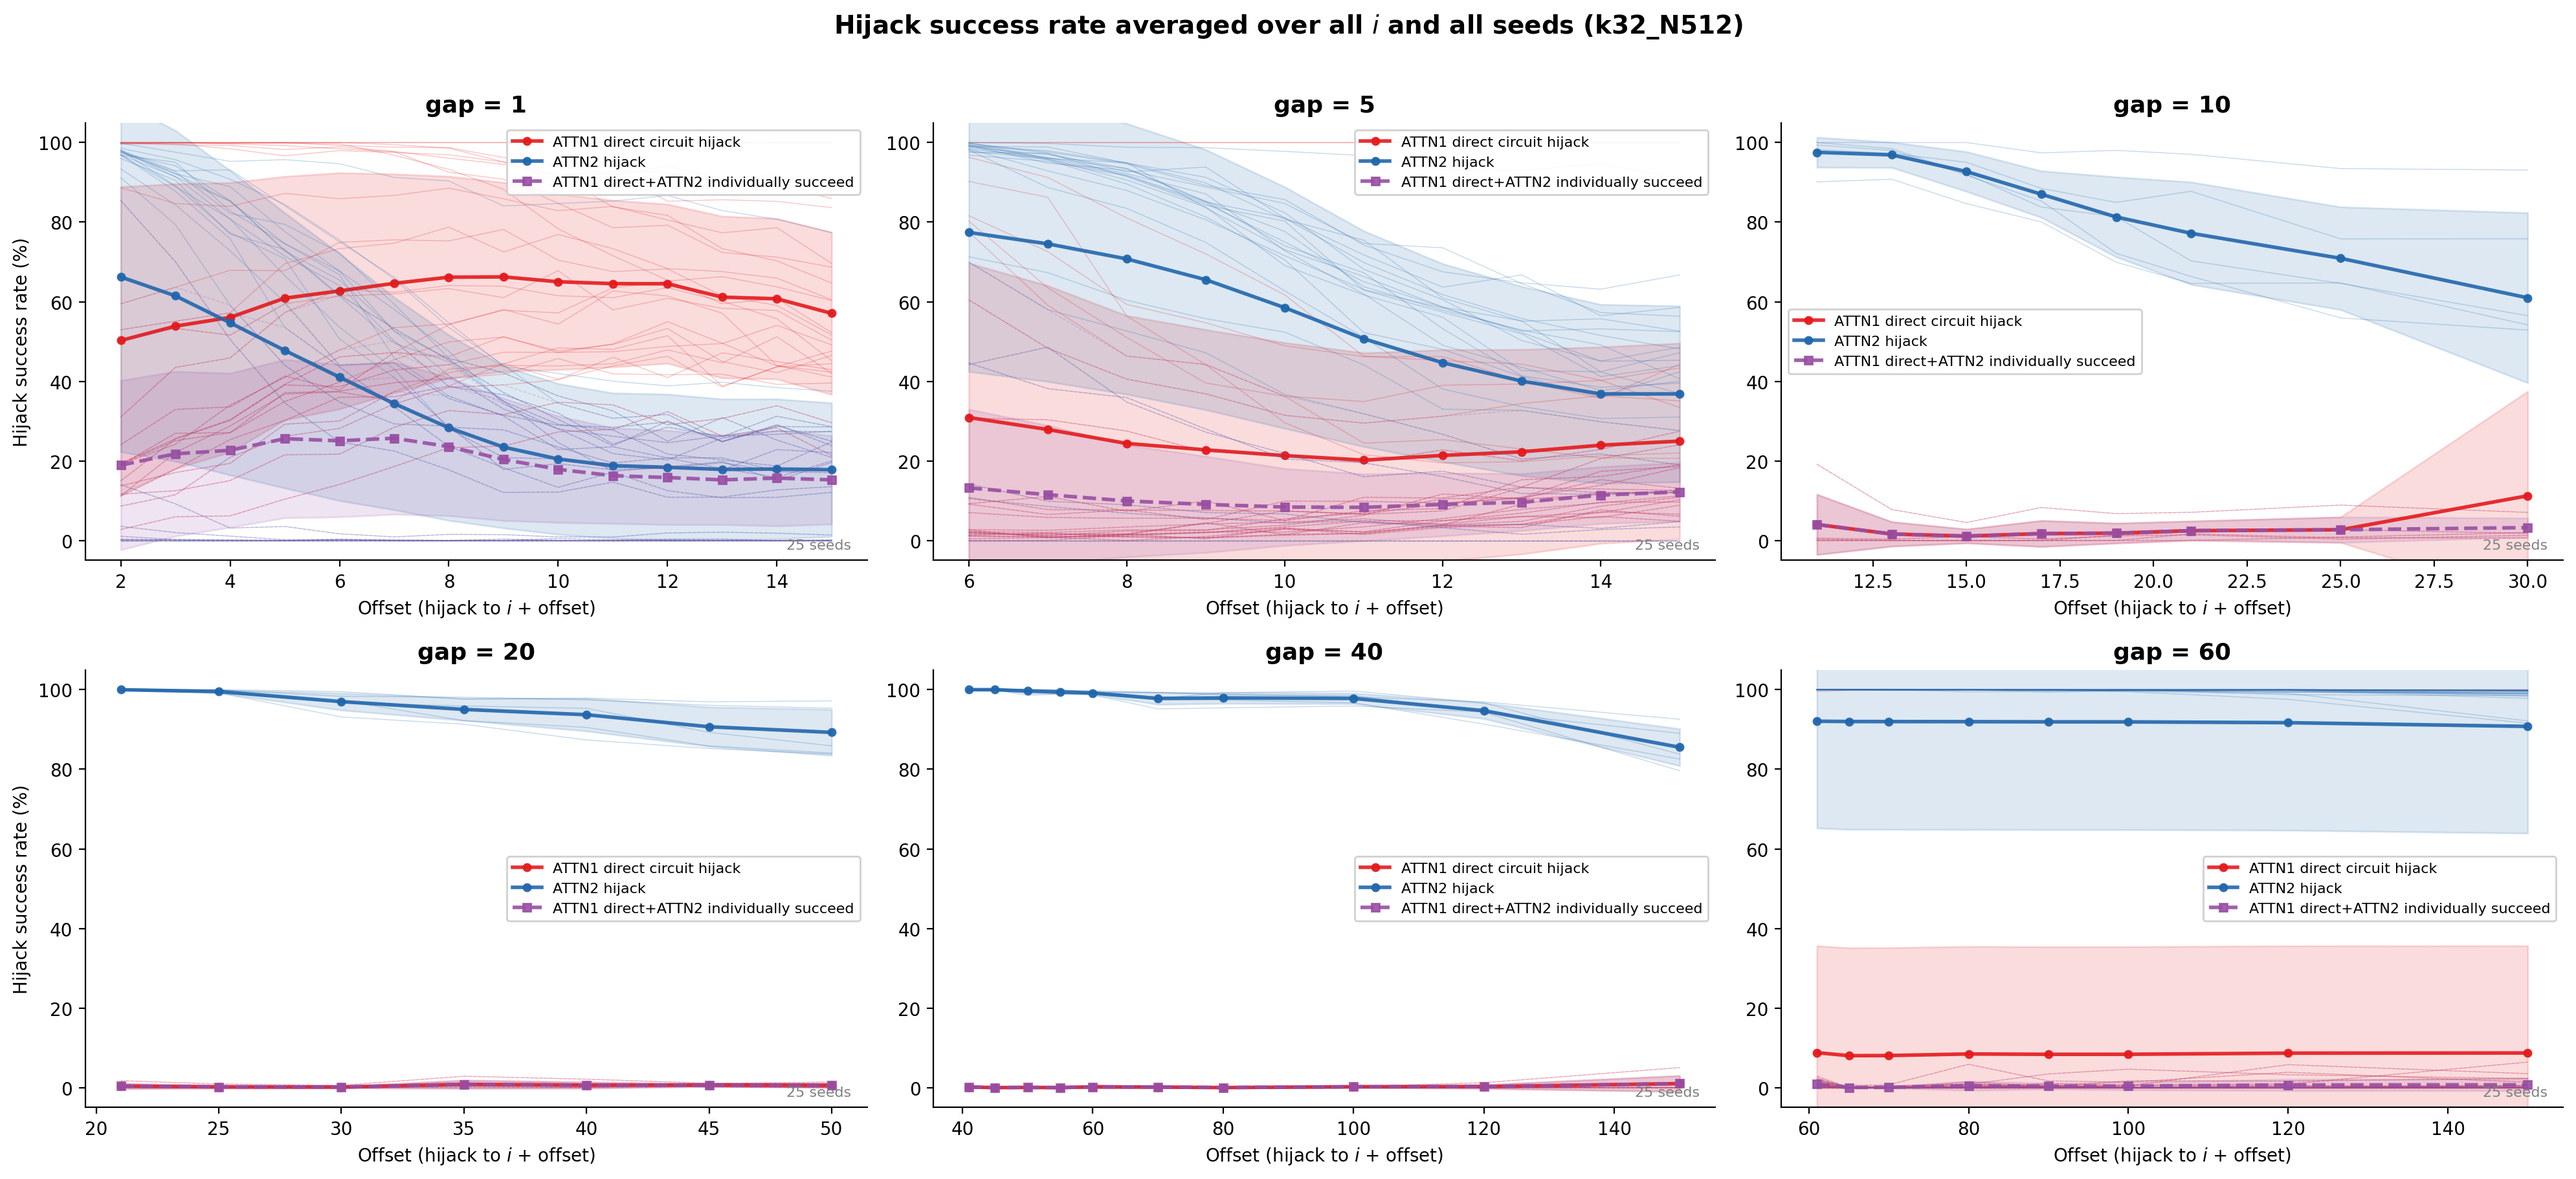
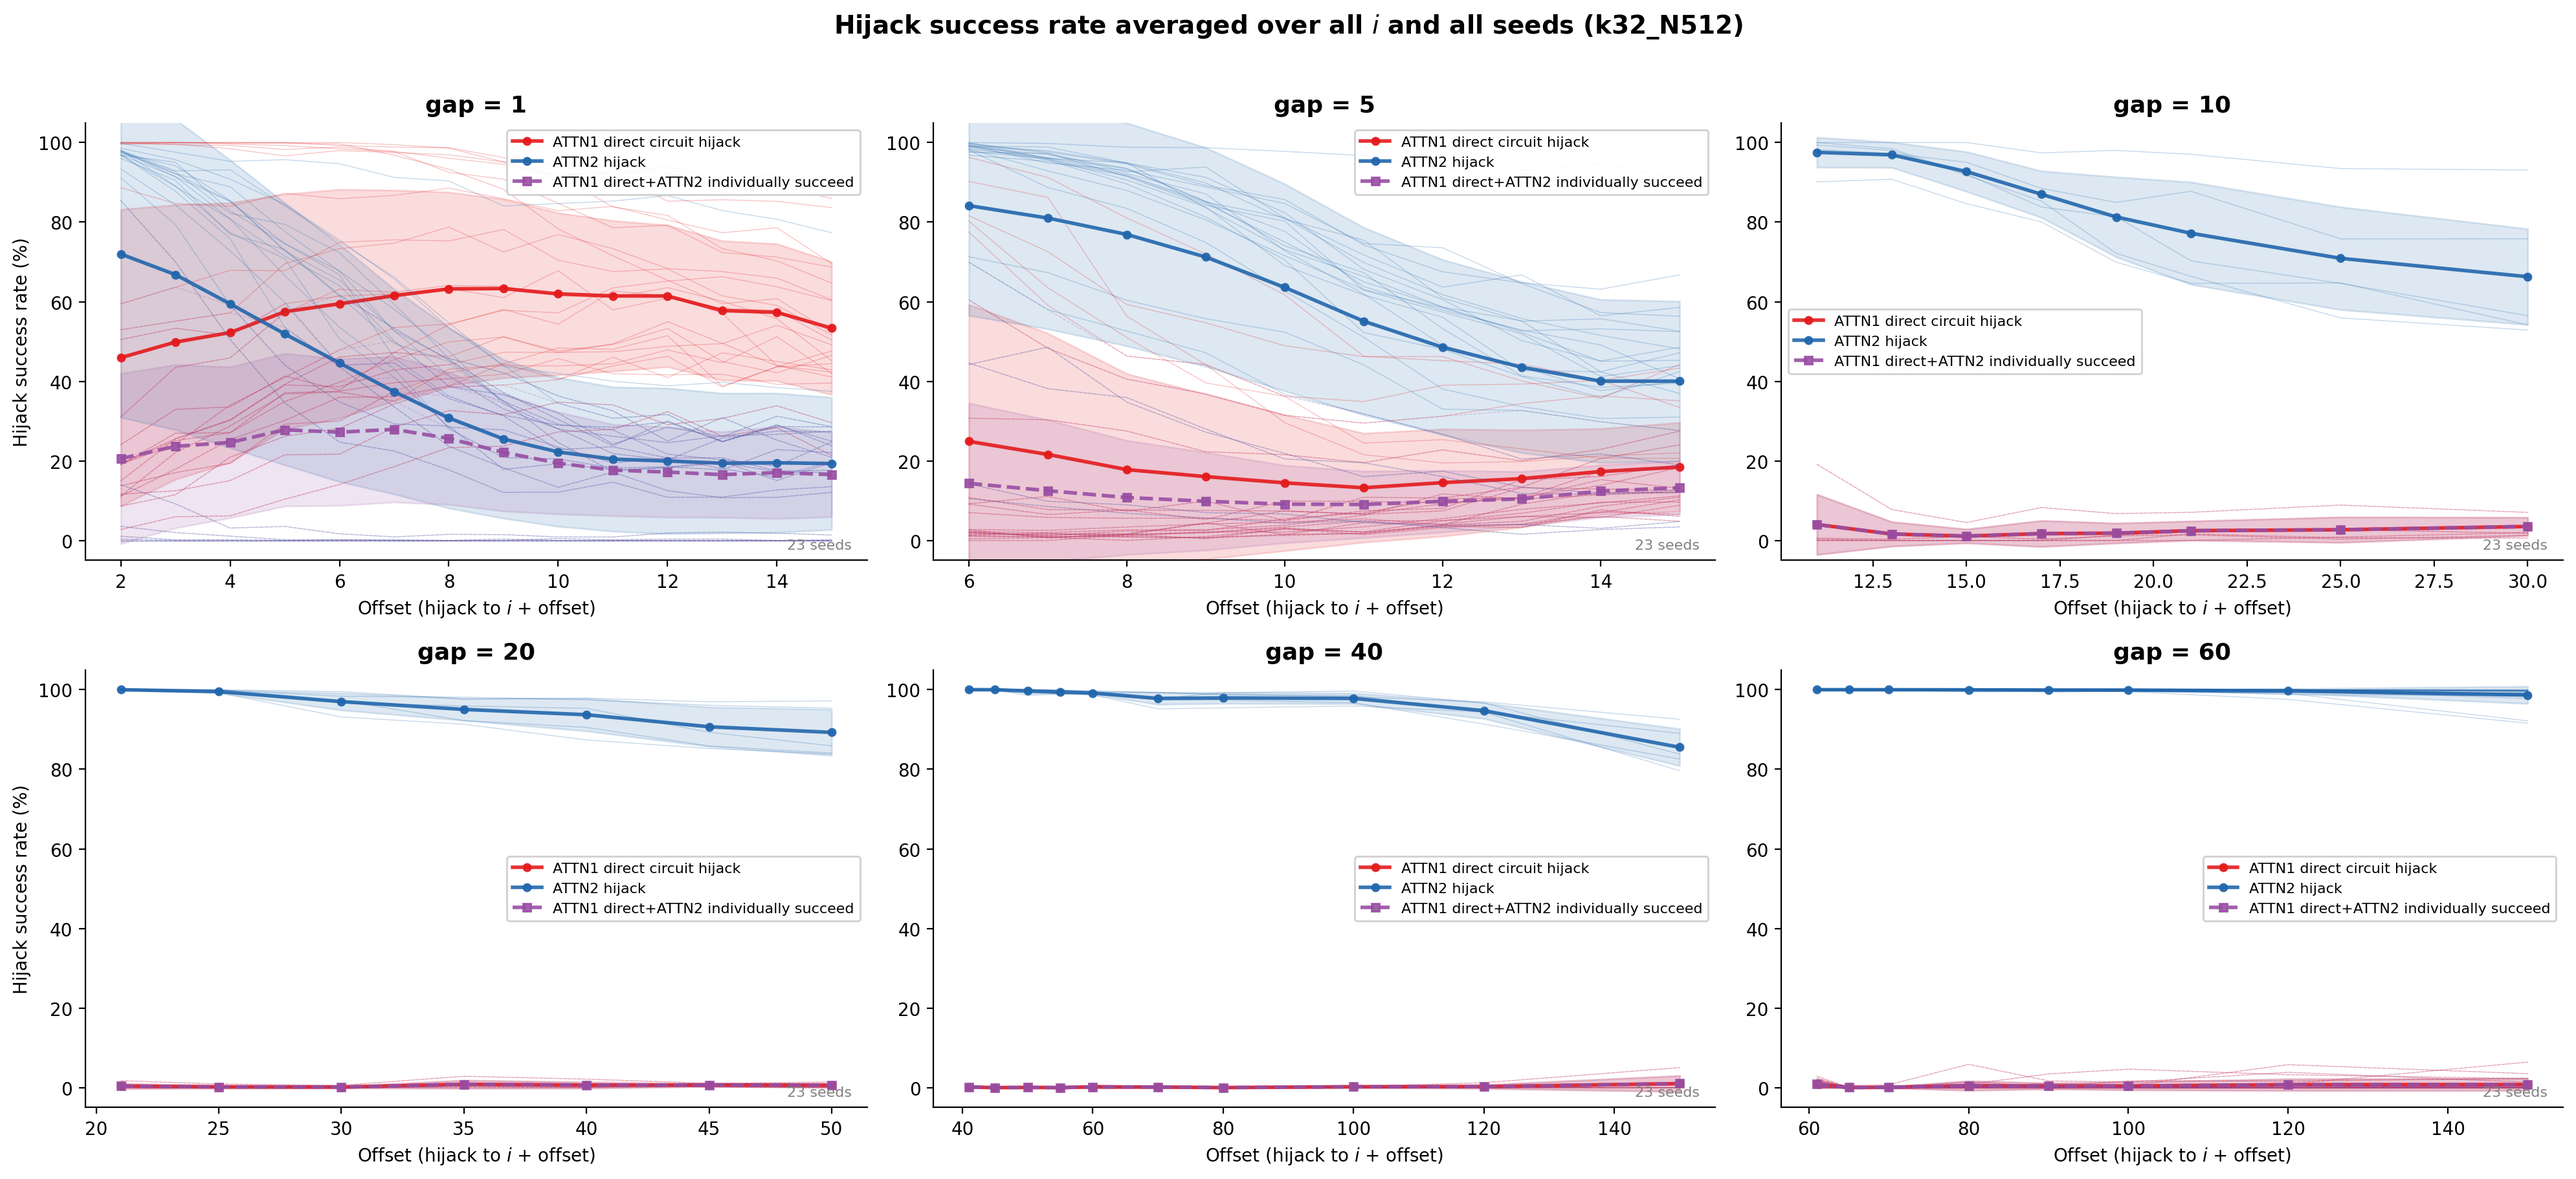
Update hijack plot to 23 two-stage seeds, add classification scripts
Made-with: Cursor

diff --git a/mechanistic-interpretability/role-of-position/classify_new_seeds.py b/mechanistic-interpretability/role-of-position/classify_new_seeds.py
@@ -1,0 +1,57 @@
+#!/usr/bin/env python3
+"""Classify seeds 6-25 for k32_N512 as leap-former or not."""
+import os, sys
+sys.path.insert(0, os.path.join(os.path.dirname(__file__), '..', '..', 'sortgpt_toolkit'))
+
+import torch
+import torch.nn.functional as F
+from model import DEVICE, load_model_from_checkpoint
+
+N_TRIALS = 200
+
+@torch.no_grad()
+def classify(model):
+    bs = model.config.block_size
+    vn = model.config.vocab_size - 1
+    b0, b1 = model.transformer.h[0], model.transformer.h[1]
+    normal_correct = ablated_correct = total = 0
+    for _ in range(N_TRIALS):
+        x = torch.randperm(vn)[:bs]
+        vals, _ = torch.sort(x)
+        sep = torch.tensor([vn])
+        idx = torch.cat((x, sep, vals)).unsqueeze(0).to(DEVICE)
+        B, T = idx.size()
+        targets = idx[0, bs + 1:]
+        logits_n, _ = model(idx, block_size=bs, return_full_logits=True)
+        preds_n = logits_n[0, bs:2*bs].argmax(dim=-1)
+        normal_correct += (preds_n == targets).sum().item()
+        pos = model.transformer.wpe(model.pos_idx[:T])
+        embed = model.transformer.wte(idx) + pos
+        x_out = b0(embed)
+        x_no_a2 = x_out + b1.mlp(b1.ln_2(x_out)) if b1.mlp is not None else x_out
+        x_no_a2 = model.transformer.ln_f(x_no_a2)
+        logits_a = x_no_a2 @ model.lm_head.weight.T
+        preds_a = logits_a[0, bs:2*bs].argmax(dim=-1)
+        ablated_correct += (preds_a == targets).sum().item()
+        total += bs
+    return normal_correct / total, ablated_correct / total
+
+BASE = os.path.join(os.path.dirname(__file__), '..', '..')
+results = []
+for seed in range(6, 26):
+    if seed <= 15:
+        ckpt = os.path.join(BASE, f'new-grid-multiple-2/k32_N512/seed{seed}/checkpoints/std0p01_iseed{seed}__ckpt100000.pt')
+    else:
+        ckpt = os.path.join(BASE, f'new-grid-multiple-3/k32_N512/seed{seed}/checkpoints/std0p01_iseed{seed}__ckpt100000.pt')
+    model = load_model_from_checkpoint(ckpt)
+    norm_acc, abl_acc = classify(model)
+    is_leap = abl_acc < 0.10
+    tag = "LEAP" if is_leap else "SINGLE"
+    print(f"seed{seed}: normal={norm_acc:.4f}  no_attn2={abl_acc:.4f}  -> {tag}")
+    results.append((seed, norm_acc, abl_acc, is_leap))
+
+print("\n=== Summary ===")
+leaps = [s for s, _, _, lf in results if lf]
+singles = [s for s, _, _, lf in results if not lf]
+print(f"Leap-formers ({len(leaps)}): seeds {leaps}")
+print(f"Single-stage ({len(singles)}): seeds {singles}")

diff --git a/mechanistic-interpretability/role-of-position/classify_new_seeds_fullseq.py b/mechanistic-interpretability/role-of-position/classify_new_seeds_fullseq.py
@@ -1,0 +1,53 @@
+#!/usr/bin/env python3
+"""Classify seeds 6-25 for k32_N512 using full-sequence accuracy."""
+import os, sys
+sys.path.insert(0, os.path.join(os.path.dirname(__file__), '..', '..', 'sortgpt_toolkit'))
+
+import torch
+from model import DEVICE, load_model_from_checkpoint
+
+N_TRIALS = 500
+
+@torch.no_grad()
+def classify(model):
+    bs = model.config.block_size
+    vn = model.config.vocab_size - 1
+    b0, b1 = model.transformer.h[0], model.transformer.h[1]
+    normal_fullseq = ablated_fullseq = 0
+    for _ in range(N_TRIALS):
+        x = torch.randperm(vn)[:bs]
+        vals, _ = torch.sort(x)
+        sep = torch.tensor([vn])
+        idx = torch.cat((x, sep, vals)).unsqueeze(0).to(DEVICE)
+        B, T = idx.size()
+        targets = idx[0, bs + 1:]
+
+        logits_n, _ = model(idx, block_size=bs, return_full_logits=True)
+        preds_n = logits_n[0, bs:2*bs].argmax(dim=-1)
+        if (preds_n == targets).all():
+            normal_fullseq += 1
+
+        pos = model.transformer.wpe(model.pos_idx[:T])
+        embed = model.transformer.wte(idx) + pos
+        x_out = b0(embed)
+        x_no_a2 = x_out + b1.mlp(b1.ln_2(x_out)) if b1.mlp is not None else x_out
+        x_no_a2 = model.transformer.ln_f(x_no_a2)
+        logits_a = x_no_a2 @ model.lm_head.weight.T
+        preds_a = logits_a[0, bs:2*bs].argmax(dim=-1)
+        if (preds_a == targets).all():
+            ablated_fullseq += 1
+
+    return normal_fullseq / N_TRIALS, ablated_fullseq / N_TRIALS
+
+BASE = os.path.join(os.path.dirname(__file__), '..', '..')
+print(f"{'seed':<8} {'normal':>8} {'no_attn2':>10}  type")
+print("-" * 40)
+for seed in range(6, 26):
+    if seed <= 15:
+        ckpt = os.path.join(BASE, f'new-grid-multiple-2/k32_N512/seed{seed}/checkpoints/std0p01_iseed{seed}__ckpt100000.pt')
+    else:
+        ckpt = os.path.join(BASE, f'new-grid-multiple-3/k32_N512/seed{seed}/checkpoints/std0p01_iseed{seed}__ckpt100000.pt')
+    model = load_model_from_checkpoint(ckpt)
+    norm, abl = classify(model)
+    tag = "SINGLE" if abl > 0.5 else "TWO-STAGE"
+    print(f"seed{seed:<4} {norm:>8.3f} {abl:>10.3f}  {tag}")

diff --git a/mechanistic-interpretability/role-of-position/plot_hijack_avg_seeds.py b/mechanistic-interpretability/role-of-position/plot_hijack_avg_seeds.py
@@ -20,7 +20,7 @@ OUTDIR  = os.path.join(os.path.dirname(__file__), 'plots')
 os.makedirs(OUTDIR, exist_ok=True)
 
 GAPS = [1, 5, 10, 20, 40, 60]
-SEEDS = [f'seed{i}' for i in range(1, 26)]
+SEEDS = [f'seed{i}' for i in range(1, 26) if i not in (8, 10)]
 
 if ARGS.mode == 'firstlayer':
     HT_STYLES = {
